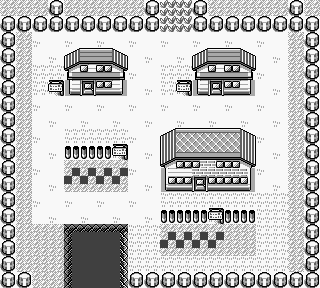
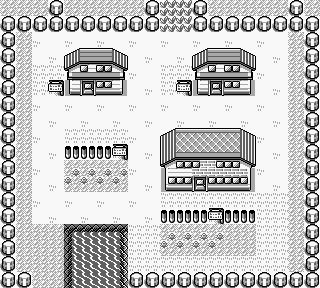
Changed player movement so that player is always at the center of the screen, and the background moves

Changed region(s): [[0.2188, 0.7812, 0.375, 1.0], [0.5, 0.7812, 0.7188, 0.875], [0.1875, 0.5625, 0.4062, 0.6562]]

diff --git a/js/app.js b/js/app.js
@@ -1,7 +1,8 @@
-var yPos = 6;
-var xPos = 5;
-var playerDirection = "";
+var squareSize = 2.5;
+var playerY = 6; //map y = ((5 - playerY) * squareSize) + "vw";
+var playerX = 5; //map x = ((5 - playerX) * squareSize) + "vw";
 var playerState = "standing";
+var playerDirection = "down";
 var walkingInterval = null;
 var moving = false;
 var token = 0;
@@ -13,47 +14,50 @@ function movePlayer(direction) {
         var targetSquare = null;
         switch (direction) {
             case "up":
-                targetSquare = mapLocations[currentLocation][0][yPos - 1][xPos];
+                playerDirection = "up";
+                targetSquare = mapLocations[currentLocation][0][playerY - 1][playerX];
                 if (typeof targetSquare === "string") {
                     loadNewMapArea(targetSquare);
-                } else if (yPos > 0 && targetSquare === 0) {
-                    yPos--
+                } else if (playerY > 0 && targetSquare === 0) {
+                    playerY--
                 }
                 break;
             case "down":
-                targetSquare = mapLocations[currentLocation][0][yPos + 1][xPos];
+                playerDirection = "down";
+                targetSquare = mapLocations[currentLocation][0][playerY + 1][playerX];
                 if (typeof targetSquare === "string") {
                     loadNewMapArea(targetSquare);
-                } else if (yPos < 18 && targetSquare === 0) {
-                    yPos++
+                } else if (playerY < 18 && targetSquare === 0) {
+                    playerY++
                 }
                 break;
             case "left":
-                targetSquare = mapLocations[currentLocation][0][yPos][xPos - 1];
+                playerDirection = "left";
+                targetSquare = mapLocations[currentLocation][0][playerY][playerX - 1];
                 if (typeof targetSquare === "string") {
                     loadNewMapArea(targetSquare);
-                } else if (xPos > 0 && targetSquare === 0) {
-                    xPos--
+                } else if (playerX > 0 && targetSquare === 0) {
+                    playerX--
                 }
                 break;
             case "right":
-                targetSquare = mapLocations[currentLocation][0][yPos][xPos + 1];
+                playerDirection = "right";
+                targetSquare = mapLocations[currentLocation][0][playerY][playerX + 1];
                 if (typeof targetSquare === "string") {
                     loadNewMapArea(targetSquare);
-                } else if (xPos < 20 && targetSquare === 0) {
-                    xPos++
+                } else if (playerX < 20 && targetSquare === 0) {
+                    playerX++
                 }
                 break;
             default:
         };
-        $("#player").css("top", ((100 / 18) * yPos) + "%");
-        $("#player").css("left", ((100 / 20) * xPos) + "%");
+        var mapY = ((5 - playerY) * squareSize) + "vw";
+        var mapX = ((5 - playerX) * squareSize) + "vw";
+        $("#screen").css("background-position", mapX + " " + mapY);
         moving = true;
         setTimeout(function(){ moving = false }, 240)
         playerState = "walking";
-        animatePlayer();
-    } else {
-        console.log("stuck");
+        animatePlayerMovement(direction);
     }
 }
 
@@ -62,20 +66,21 @@ function loadNewMapArea(name) {
     currentLocation = name;
     $("#player").hide();
     $("#screen").css("background-image", "url(img/" + name + ".png)");
-    yPos = mapLocations[currentLocation][1][lastLocation][0];
-    xPos = mapLocations[currentLocation][1][lastLocation][1];
-    $("#player").css("top", ((100 / 18) * yPos) + "%");
-    $("#player").css("left", ((100 / 20) * xPos) + "%");
+    playerY = mapLocations[currentLocation][1][lastLocation][0];
+    playerX = mapLocations[currentLocation][1][lastLocation][1];
+    var mapY = ((5 - playerY) * squareSize) + "vw";
+    var mapX = ((5 - playerX) * squareSize) + "vw";
+    $("#screen").css("background-position", mapX + " " + mapY);
     setTimeout(function() {
         $("#player").show();
-    }, 100);
+    }, 400);
 }
 
-function animatePlayer() {
+function animatePlayerMovement(direction) {
     var spriteX = "";
     var spriteY1 = "50%";
     var spriteY2 = "100%";
-    switch (playerDirection) {
+    switch (direction) {
         case "up":
             spriteX = "33.333%";
             break;
@@ -169,6 +174,6 @@ $(document).ready(function() {
     //Need to only trigger this if a move key was hit... right now it fires for any key
     $(document).on("keyup", function() {
         playerState = "standing";
-        animatePlayer();
+        animatePlayerMovement(playerDirection);
     });
 });

diff --git a/data/maps.js b/data/maps.js
@@ -1,18 +1,18 @@
 var mapLocations = {
     pallet: [
         [
-            [0, 0, 0, 1, 0, 0, 0, 0, 0, 1, "woods", "woods", 1, 0, 0, 0, 0, 0, 1, 0],
+            [0, 0, 0, 1, 0, 0, 0, 0, 0, 1, "route1", "route1", 1, 0, 0, 0, 0, 0, 1, 0],
             [1, 1, 1, 1, 1, 1, 1, 1, 1, 1, 0, 0, 1, 1, 1, 1, 1, 1, 1, 1],
             [1, 0, 0, 0, 0, 0, 0, 0, 0, 0, 0, 0, 0, 0, 0, 0, 0, 0, 0, 1],
             [1, 0, 0, 0, 1, 1, 1, 1, 0, 0, 0, 0, 1, 1, 1, 1, 0, 0, 0, 1],
-            [1, 0, 0, 0, 1, 1, 1, 1, 0, 0, 0, 0, 1, 1, 1, 1, 0, 0, 0, 1],
-            [1, 0, 0, 1, 1, "ashHouse1", 1, 1, 0, 0, 0, 1, 1, "rivalHouse", 1, 1, 0, 0, 0, 1],
+            [1, 0, 0, 0, 1, "ashHouse1", 1, 1, 0, 0, 0, 0, 1, "rivalHouse", 1, 1, 0, 0, 0, 1],
+            [1, 0, 0, 1, 1, 0, 1, 1, 0, 0, 0, 1, 1, 0, 1, 1, 0, 0, 0, 1],
             [1, 0, 0, 0, 0, 0, 0, 0, 0, 0, 0, 0, 0, 0, 0, 0, 0, 0, 0, 1],
             [1, 0, 0, 0, 0, 0, 0, 0, 0, 0, 0, 0, 0, 0, 0, 0, 0, 0, 0, 1],
             [1, 0, 0, 0, 0, 0, 0, 0, 0, 0, 1, 1, 1, 1, 1, 1, 0, 0, 0, 1],
             [1, 0, 0, 0, 1, 1, 1, 1, 0, 0, 1, 1, 1, 1, 1, 1, 0, 0, 0, 1],
-            [1, 0, 0, 0, 0, 0, 0, 0, 0, 0, 1, 1, 1, 1, 1, 1, 0, 0, 0, 1],
             [1, 0, 0, 0, 0, 0, 0, 0, 0, 0, 1, 1, "oakLab", 1, 1, 1, 0, 0, 0, 1],
+            [1, 0, 0, 0, 0, 0, 0, 0, 0, 0, 1, 1, 0, 1, 1, 1, 0, 0, 0, 1],
             [1, 0, 0, 0, 0, 0, 0, 0, 0, 0, 0, 0, 0, 0, 0, 0, 0, 0, 0, 1],
             [1, 0, 0, 0, 0, 0, 0, 0, 0, 0, 1, 1, 1, 1, 1, 1, 0, 0, 0, 1],
             [1, 0, 0, 0, 3, 3, 3, 3, 0, 0, 0, 0, 0, 0, 0, 0, 0, 0, 0, 1],

diff --git a/css/style.scss b/css/style.scss
@@ -1,4 +1,4 @@
-$edgeLength: 1.5vw;
+$edgeLength: 2.5vw;
 $dPadBorderRadius: 3px;
 
 @font-face {
@@ -163,14 +163,15 @@ p {
 
 #screen {
     display: flex;
-    width: 20 * $edgeLength;
-    height: 18 * $edgeLength;
-    background-color: #485100;
+    width: 11 * $edgeLength;
+    height: 11 * $edgeLength;
+    background-color: rgb(0,0,0);  //#485100; green screen
     background-image: url(../img/pallet.png);
     image-rendering: pixelated;
     background-repeat: no-repeat !important;
-    background-position: 2.5% 32%;
-    background-size: cover;
+    background-position:0*$edgeLength -1*$edgeLength;
+    background-size: 20*$edgeLength 18*$edgeLength;
+    transition: background-position 0.4s linear;
     position: absolute;
     top: 50%;
     left: 50%;
@@ -187,8 +188,9 @@ p {
     background-position: 0% 0%;
     background-size: 400% !important;
     position: absolute;
-    top: (100% / 18) * 6;
-    left: (100% / 20) * 5;
+    top: 50%;
+    left: 50%;
+    transform: translate(-50%, -50%);
     transition: top 0.4s linear,
                 left 0.4s linear;
 }

diff --git a/css/style.css b/css/style.css
@@ -116,14 +116,15 @@ p {
 
 #screen {
   display: flex;
-  width: 30vw;
-  height: 27vw;
-  background-color: #485100;
+  width: 27.5vw;
+  height: 27.5vw;
+  background-color: black;
   background-image: url(../img/pallet.png);
   image-rendering: pixelated;
   background-repeat: no-repeat !important;
-  background-position: 2.5% 32%;
-  background-size: cover;
+  background-position: 0vw -2.5vw;
+  background-size: 50vw 45vw;
+  transition: background-position 0.4s linear;
   position: absolute;
   top: 50%;
   left: 50%;
@@ -131,16 +132,17 @@ p {
   border: 2px solid black; }
 
 #player {
-  width: 1.5vw;
-  height: 1.5vw;
+  width: 2.5vw;
+  height: 2.5vw;
   background-image: url(../img/ash-sprite.png);
   image-rendering: pixelated;
   background-repeat: no-repeat !important;
   background-position: 0% 0%;
   background-size: 400% !important;
   position: absolute;
-  top: 33.3333333333%;
-  left: 25%;
+  top: 50%;
+  left: 50%;
+  transform: translate(-50%, -50%);
   transition: top 0.4s linear, left 0.4s linear; }
 
 #nintendo {
